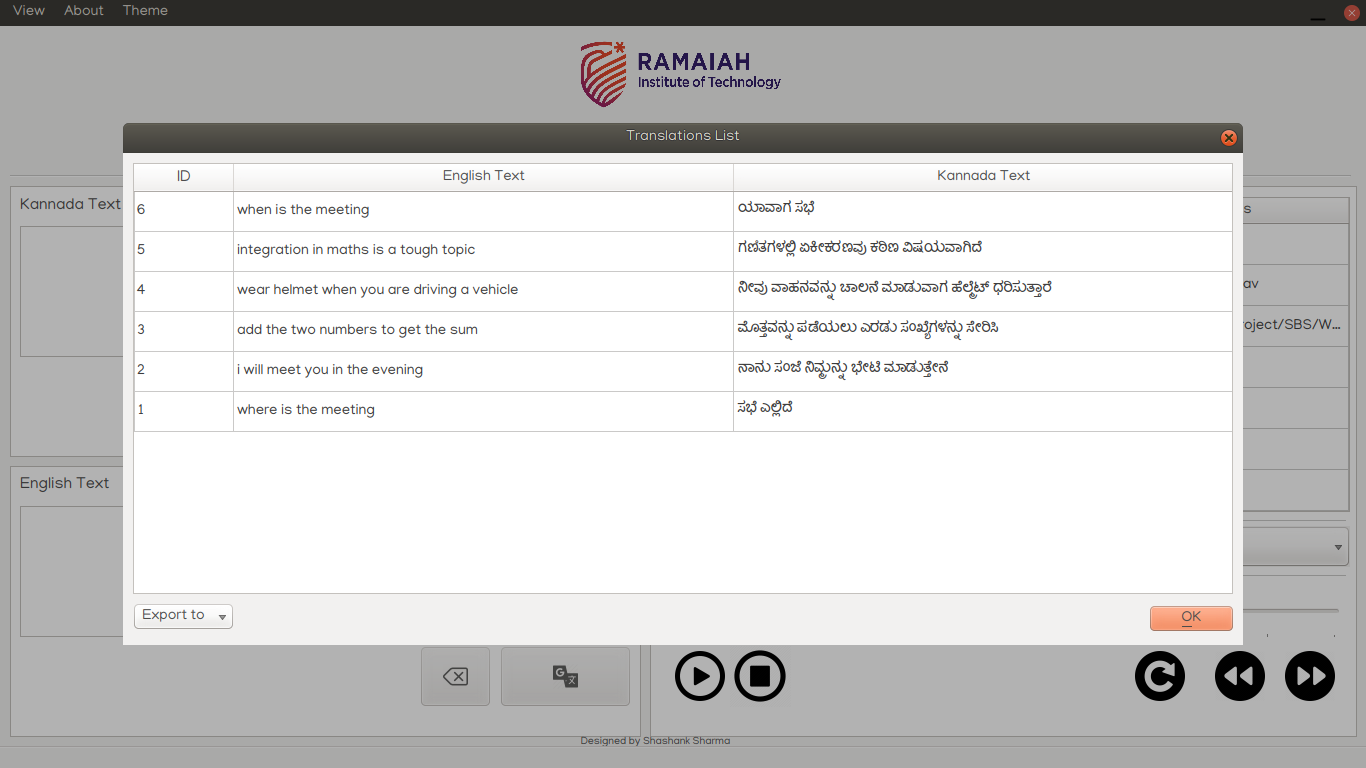
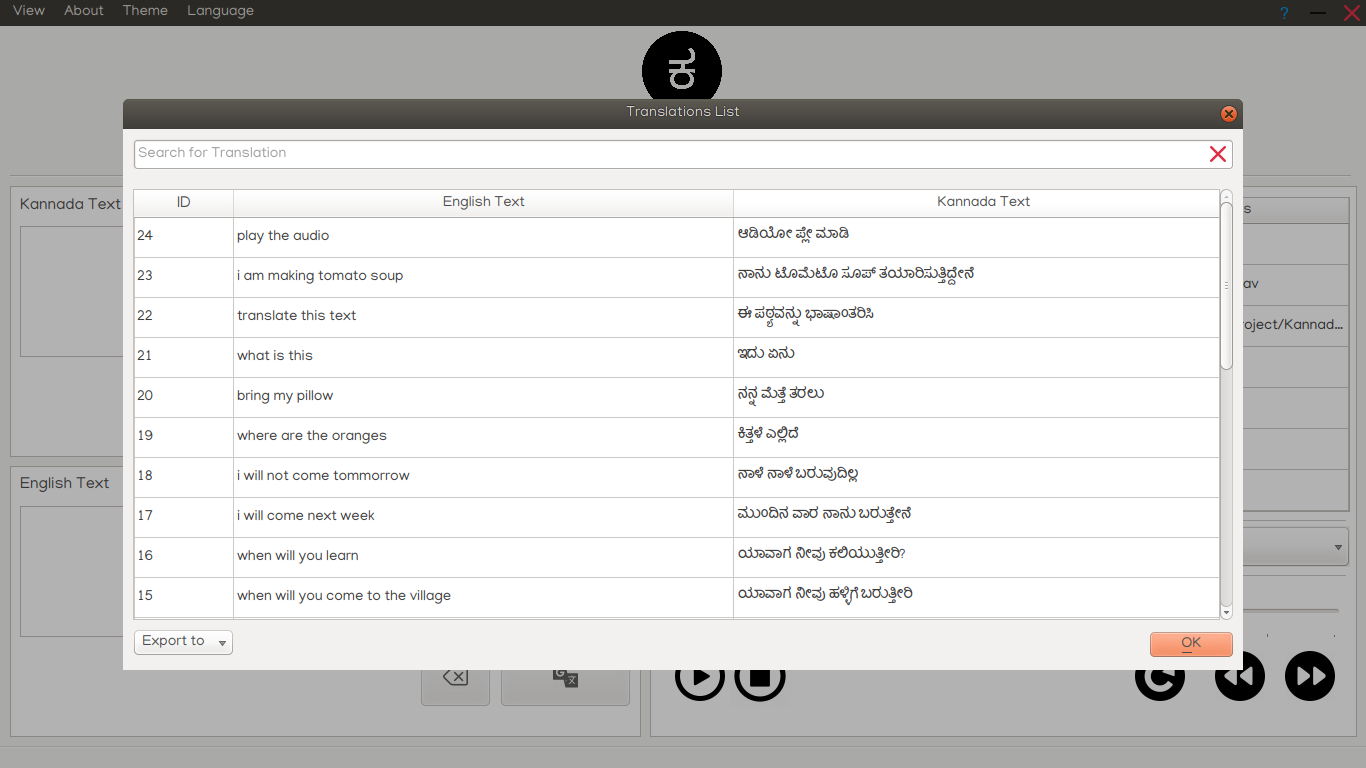
v2.1 14.31_4.3

diff --git a/App/Main.py b/App/Main.py
@@ -129,6 +129,7 @@ class SynTableView(QtGui.QDialog):
         
         #Database Object
         self.db = kwargs.get('parent').syn_db
+        self.entries = list(self.db.get_all_entries_for_table())
         
         #Set Column Width
         self.set_column_width()  
@@ -141,6 +142,29 @@ class SynTableView(QtGui.QDialog):
         
         #Export Menu
         self.export_button_config()
+
+        #Configure Search
+        self.search_config()
+
+
+    def search_config(self):
+        self.ui.search_text.textChanged.connect(self.search_translation)
+
+    def search_translation(self):
+        search_text = str(self.ui.search_text.text())
+        if search_text == '':
+            self.populate_data()
+        else:
+            self.ui.tableWidget.clearContents()
+            self.ui.tableWidget.setRowCount(0)
+            for entry in list(self.entries):
+                for column in entry:
+                    if search_text in str(column):
+                        rowPosition = self.ui.tableWidget.rowCount()
+                        self.ui.tableWidget.insertRow(rowPosition)
+                        self.ui.tableWidget.setRowHeight(rowPosition,40)
+                        for column in range(0,5):
+                            self.ui.tableWidget.setItem(rowPosition,column,QtGui.QTableWidgetItem(str(entry[column])))
 
     def export_button_config(self):
         menu = QtGui.QMenu(self.ui.export_button)
@@ -186,8 +210,9 @@ class SynTableView(QtGui.QDialog):
         # =====================================================================
         # Creates Rows and Adds Data from Database
         # =====================================================================
-        entries = self.db.get_all_entries_for_table()
-        for entry in entries:
+        self.ui.tableWidget.clearContents()
+        self.ui.tableWidget.setRowCount(0)
+        for entry in self.entries:
             rowPosition = self.ui.tableWidget.rowCount()
             self.ui.tableWidget.insertRow(rowPosition)
             self.ui.tableWidget.setRowHeight(rowPosition,40)
@@ -220,6 +245,8 @@ class TraTableView(QtGui.QDialog):
         #Database Object
         self.db = kwargs.get('parent').tra_db
         
+        self.entries = list(self.db.get_all_entries_for_table())
+        
         #Set Column Width
         self.set_column_width()  
         
@@ -229,6 +256,29 @@ class TraTableView(QtGui.QDialog):
         #Export Menu
         self.export_button_config()
 
+        #Configure Search
+        self.search_config()
+
+
+    def search_config(self):
+        self.ui.search_text.textChanged.connect(self.search_translation)
+
+    def search_translation(self):
+        search_text = str(self.ui.search_text.text())
+        if search_text == '':
+            self.populate_data()
+        else:
+            self.ui.tableWidget.clearContents()
+            self.ui.tableWidget.setRowCount(0)
+            for entry in list(self.entries):
+                for column in entry:
+                    if search_text in str(column):
+                        rowPosition = self.ui.tableWidget.rowCount()
+                        self.ui.tableWidget.insertRow(rowPosition)
+                        self.ui.tableWidget.setRowHeight(rowPosition,40)
+                        for column in range(0,3):
+                            self.ui.tableWidget.setItem(rowPosition,column,QtGui.QTableWidgetItem(str(entry[column])))
+                        
     def export_button_config(self):
         menu = QtGui.QMenu(self.ui.export_button)
         
@@ -274,8 +324,13 @@ class TraTableView(QtGui.QDialog):
         # =====================================================================
         # Creates Rows and Adds Data from Database
         # =====================================================================
-        entries = self.db.get_all_entries_for_table()
-        for entry in entries:
+        
+        #Clear Contents
+        self.ui.tableWidget.clearContents()
+        self.ui.tableWidget.setRowCount(0)
+        
+        #Populate Data
+        for entry in self.entries:
             rowPosition = self.ui.tableWidget.rowCount()
             self.ui.tableWidget.insertRow(rowPosition)
             self.ui.tableWidget.setRowHeight(rowPosition,40)
@@ -553,6 +608,7 @@ class MyApp(QtGui.QMainWindow):
         
         #Clipboard to Cut/Copy/Paste
         self.clipboard = self.app.clipboard()
+        self.clipboard.setText('KSS')
         
         #App in Full Screen
         self.showFullScreen()

diff --git a/README.md b/README.md
@@ -4,7 +4,7 @@
 
 **Application now available in Kannada Version** (`./run.sh -kan` or Change language within the application)
 
-	v2.01 Beta 
+	v2.1 Beta 
 
 ## Kannada Speech Synthesis project (Core)
 Kannada Speech Synthesis is submitted as the final year project which is a part of the curriculum specified by the Department of Electronics and Communication of M S Ramaiah Institute of Technology, Bangalore. All the dependencies and frameworks which are used in the core project are mentioned in the About page of the application. Contact Developer to obtain the source and trained model of the core project.
@@ -66,11 +66,11 @@ Kannada Speech Synthesis is submitted as the final year project which is a part 
 
 ### Recent Updates on GUI Application (Added by SBS)
 1. **The application is now available in Kannada Version** (`./run.sh -kan` or Change language within the application)
-2. Added Desktop File to run the app on double click (Provide Suitable Permissions and Change icon if needed)
-3. Application now opens in Full Screen Mode
-4. Added Table of details
-5. Added Utterance and Label Files under Text Analysis
-6. Added Translation Database and Translation Table View
+2. Search option is available in Database view (Synthesis and Translation)
+3. Added Desktop File to run the app on double click (Provide Suitable Permissions and Change icon if needed)
+4. Application now opens in Full Screen Mode - Redesigned UI
+5. Added Table of details
+6. Added Utterance and Label Files under Text Analysis
 7. Now, Experience the application in 6 different themes (GTK, Windows, Motif, CDE, CleanLooks, Plastique)
 8. Fixed Memory Leak due to Plots
 9. Save Synthesis and Translation List as CSV or Image
